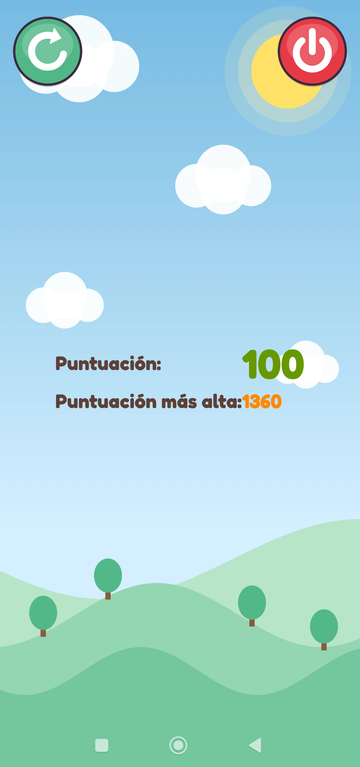
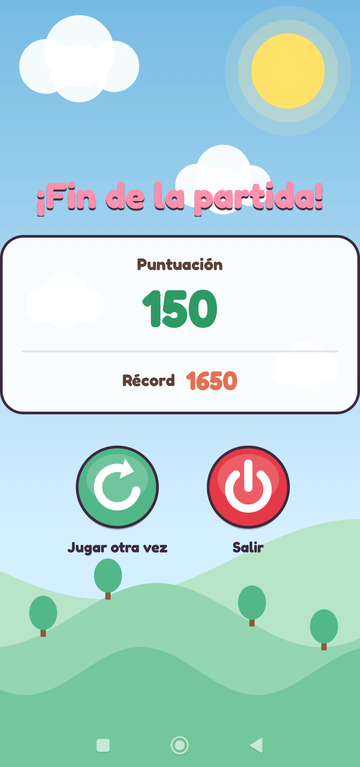
UPDATE: pantalla de Game Over rediseñada (título, tarjeta de puntuaciones y botones grandes centrados)
- Título «¡Fin de la partida!» y trofeo con «¡Nuevo récord!» al batir el récord
- Tarjeta con la puntuación de la partida y el récord (textos sin dos puntos)
- Botones de 96 dp con su texto debajo; captura del README actualizada

diff --git a/ConejoJorge/app/src/main/java/com/example/conejojorge/GameOver.kt b/ConejoJorge/app/src/main/java/com/example/conejojorge/GameOver.kt
@@ -4,7 +4,6 @@ import android.content.Intent
 import android.media.MediaPlayer
 import android.os.Bundle
 import android.view.View
-import android.widget.ImageView
 import android.widget.TextView
 import androidx.activity.enableEdgeToEdge
 import androidx.appcompat.app.AppCompatActivity
@@ -21,7 +20,7 @@ class GameOver : AppCompatActivity() {
         val prefs = getSharedPreferences(PREFS_NAME, MODE_PRIVATE)
         var highest = prefs.getInt(KEY_HIGHEST, 0)
         if (points > highest) {
-            findViewById<ImageView>(R.id.ivNewHighest).visibility = View.VISIBLE
+            findViewById<View>(R.id.newHighest).visibility = View.VISIBLE
             highest = points
             prefs.edit { putInt(KEY_HIGHEST, highest) }
         }
